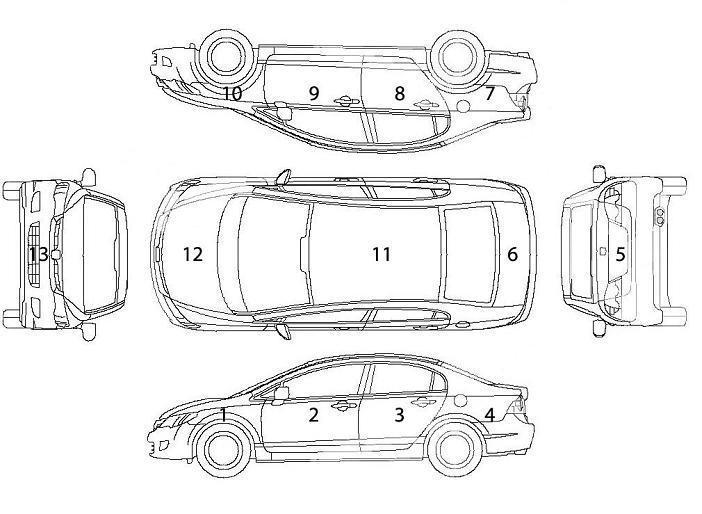
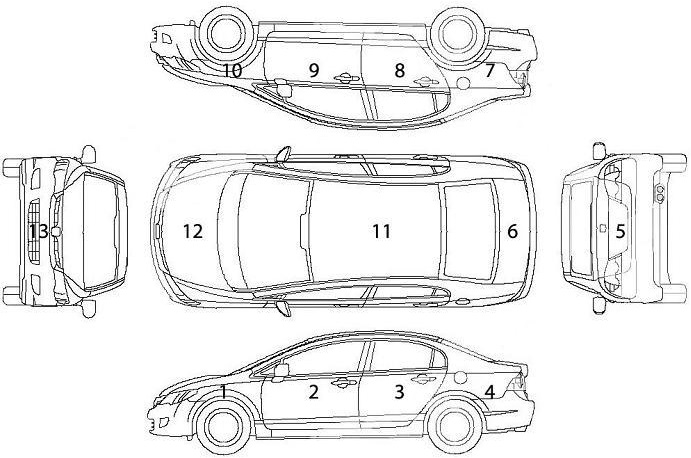
add damage selection points

diff --git a/src/main/java/com/dww/insurance/frame/SearchFrame.java b/src/main/java/com/dww/insurance/frame/SearchFrame.java
@@ -9,6 +9,7 @@ import javax.imageio.ImageIO;
 import javax.swing.*;
 import javax.swing.event.ListSelectionEvent;
 import javax.swing.event.ListSelectionListener;
+import java.awt.*;
 import java.awt.event.MouseAdapter;
 import java.awt.event.MouseEvent;
 import java.awt.event.MouseListener;
@@ -73,12 +74,47 @@ public class SearchFrame extends JPanel {
         try {
             wPic = ImageIO.read(getClass().getClassLoader().getResource("AutoShema.jpg"));
 //            wPic = ImageIO.read(new File());
-            JLabel wIcon = new JLabel(new ImageIcon(wPic));
-            wIcon.setBounds(260, 350, 300, 300);
+
+            ImageIcon imageIcon = new ImageIcon(wPic); // load the image to a imageIcon
+            Image image = imageIcon.getImage(); // transform it
+            Image newimg = image.getScaledInstance(400, 250,  java.awt.Image.SCALE_SMOOTH); // scale it the smooth way
+            imageIcon = new ImageIcon(newimg);
+
+            JLabel wIcon = new JLabel(imageIcon);
+            wIcon.setLayout(null);
+
+
+            wIcon.add(zoneLabel(348, 115, true)); // zone 5
+            wIcon.add(zoneLabel(285, 115, true)); // zone 6
+            wIcon.add(zoneLabel(211, 115, true)); // zone 11
+            wIcon.add(zoneLabel(102, 115, true)); // zone 12
+            wIcon.add(zoneLabel(12, 115, true)); // zone 13
+
+            wIcon.add(zoneLabel(119, 203, true)); // zone 1
+            wIcon.add(zoneLabel(171, 203, true)); // zone 2
+            wIcon.add(zoneLabel(221, 203, true)); // zone 3
+            wIcon.add(zoneLabel(273, 203, true)); // zone 4
+
+            wIcon.add(zoneLabel(124, 28, true)); // zone 10
+            wIcon.add(zoneLabel(171, 28, true)); // zone 9
+            wIcon.add(zoneLabel(221, 28, true)); // zone 8
+            wIcon.add(zoneLabel(273, 28, true)); // zone 7
+
+            wIcon.setBounds(260, 320, 400, 250);
             add(wIcon);
         } catch (IOException e) {
             e.printStackTrace();
         }
+
+        Label label1 = new Label(){
+            public void paint(Graphics g) {
+                super.paint(g);
+                g.setColor(Color.red);
+                g.drawOval(400, 400, 100, 100);
+            }
+        };
+        add(label1);
+
 
         JSeparator separator = new JSeparator();
         separator.setBounds(0, 75, 784, 2);
@@ -221,6 +257,20 @@ public class SearchFrame extends JPanel {
         vehicleModel.setText("Model : " + (report == null ? "" : report.getVehicleInfo().getModel()));
         vehicleType.setText("Type : " + (report == null ? "" : report.getVehicleInfo().getType()));
         vehicleBodyId.setText("Body ID : " + (report == null ? "" : report.getVehicleInfo().getBodyId()));
+    }
+
+    private JLabel zoneLabel(int x, int y, boolean enabled) {
+        SelectionPoint selectionPoint13 = new SelectionPoint(enabled);
+        JLabel zoneLabel = new JLabel(selectionPoint13);
+            zoneLabel.addMouseListener(new MouseAdapter() {
+                @Override
+                public void mouseClicked(MouseEvent e) {
+                    selectionPoint13.switchColor();
+                    zoneLabel.repaint();
+                }
+            });
+        zoneLabel.setBounds(x,y,25,25);
+        return zoneLabel;
     }
 
 }

diff --git a/src/main/java/com/dww/insurance/frame/TestApp.java b/src/main/java/com/dww/insurance/frame/TestApp.java
@@ -1,0 +1,55 @@
+package com.dww.insurance.frame;
+
+import javax.swing.*;
+import javax.swing.border.Border;
+import java.awt.*;
+
+public class TestApp extends JFrame {
+    CardLayout cardLayout;
+    JPanel cardPanel;
+    String name;
+    UserLogin userLogin;
+    SearchFrame searchFrame;
+    EditFrame editFrame;
+
+    public TestApp() {
+        initialize();
+        start();
+    }
+
+    private void start() {
+        setLayout(new FlowLayout());
+        JLabel label = new JLabel(){
+            public void paint(Graphics g) {
+                super.paint(g);
+                g.setColor(Color.red);
+                g.drawOval(0, 0, 50, 50);
+            }
+
+        };
+//        label.setMinimumSize(new Dimension(100, 100));
+        label.setOpaque(true);
+        label.setBounds(200, 200, 400,400);
+        label.setBorder(BorderFactory.createLineBorder(Color.BLUE, 2));
+        add(label);
+
+
+
+    }
+
+
+    private void initialize() {
+        setDefaultCloseOperation(DISPOSE_ON_CLOSE);
+        setDefaultLookAndFeelDecorated(true);
+        setLayout(new BorderLayout());
+
+        setTitle("test");
+        setSize(800, 600);
+        setResizable(false);
+
+        setLocationRelativeTo(null);
+        setVisible(true);
+
+    }
+
+}

diff --git a/src/main/java/com/dww/insurance/frame/SelectionPoint.java b/src/main/java/com/dww/insurance/frame/SelectionPoint.java
@@ -1,0 +1,54 @@
+package com.dww.insurance.frame;
+
+import javax.swing.*;
+import java.awt.*;
+import java.awt.geom.Ellipse2D;
+
+/**
+ * //TODO: [before commit] class description.
+ * <p/>
+ * Copyright (C) 2019 copyright.com
+ * <p/>
+ * Date: 05/06/2019
+ *
+ * @author Andrei Kuzniatsou
+ */
+public class SelectionPoint implements Icon {
+
+    private Color color;
+
+    public SelectionPoint(boolean selected) {
+        if (selected) {
+            color = Color.red;
+        } else {
+            color = Color.black;
+        }
+    }
+
+    public void switchColor() {
+        if (color == Color.red) {
+            color = Color.black;
+        } else {
+            color = Color.red;
+        }
+    }
+
+    @Override
+    public void paintIcon(Component c, Graphics g, int x, int y) {
+        Graphics2D g2 = (Graphics2D) g;
+        Ellipse2D.Double circle = new Ellipse2D.Double(0, 0, 20, 20);
+        g2.setColor(color);
+        g2.setStroke(new BasicStroke(2));
+        g2.draw(circle);
+    }
+
+    @Override
+    public int getIconWidth() {
+        return 20;
+    }
+
+    @Override
+    public int getIconHeight() {
+        return 20;
+    }
+}

diff --git a/src/main/java/com/dww/insurance/InsuranceApp.java b/src/main/java/com/dww/insurance/InsuranceApp.java
@@ -3,12 +3,14 @@ package com.dww.insurance;
 import static javax.swing.SwingUtilities.*;
 
 import com.dww.insurance.frame.MainApp;
+import com.dww.insurance.frame.TestApp;
 
 public class InsuranceApp {
 
     public static void main(String[] args) {
         invokeLater(() -> {
             MainApp startFrame = new MainApp("Start Page");
+//            TestApp startFrame = new TestApp();
             startFrame.setVisible(true);
         });
     }
